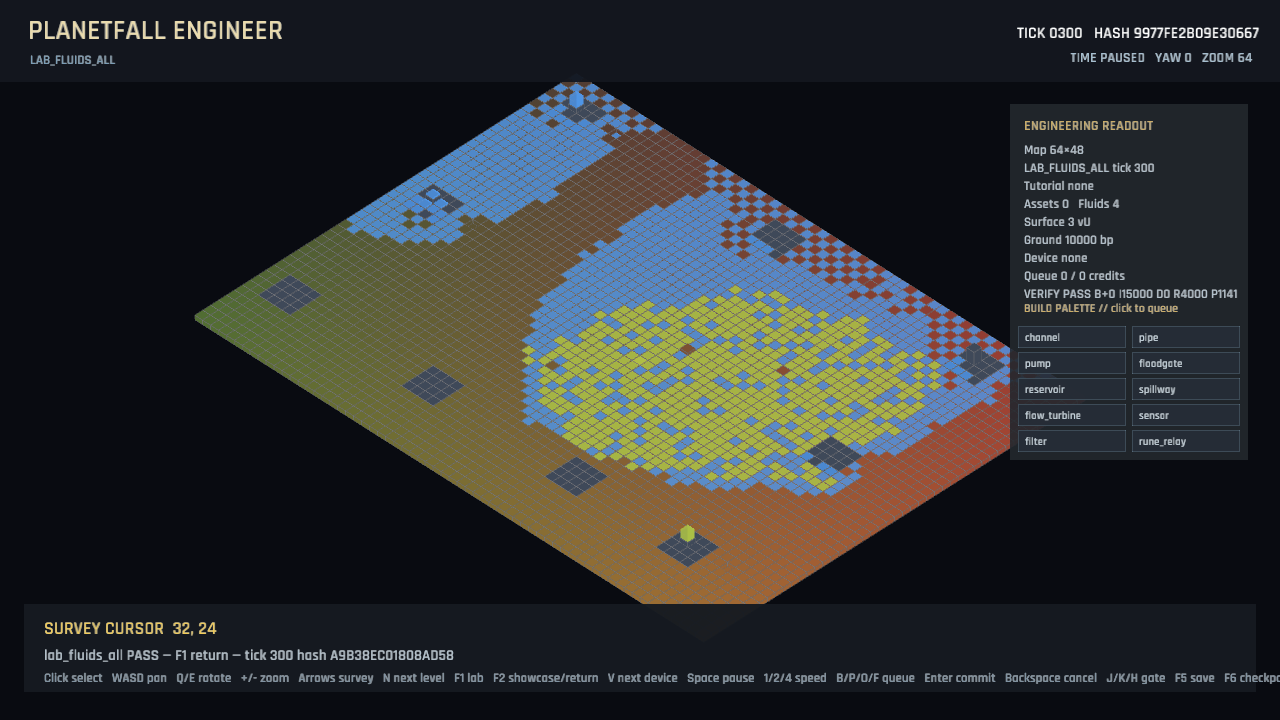
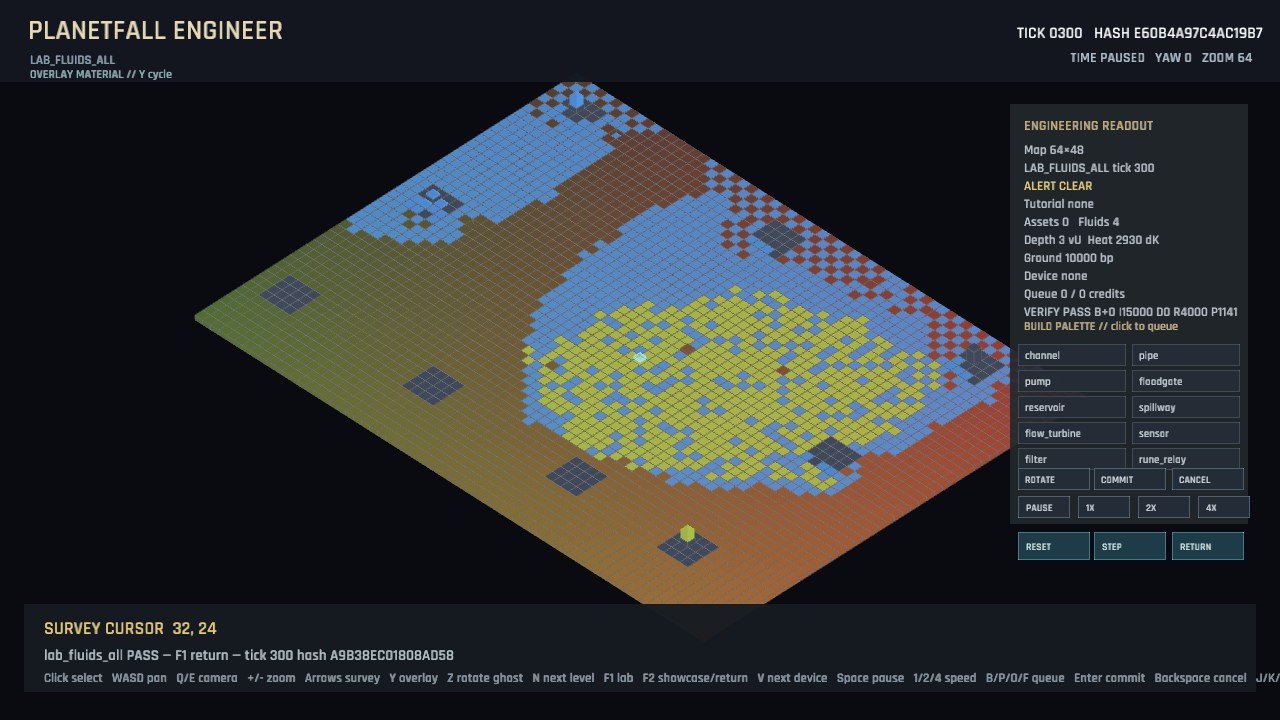
The proving ground answers every touch at the workbench (verification touch controls)
The laboratory and device fixtures still required hidden function-key knowledge\nfor reset, single-step, and return actions even after the title became\ntouch-first. Verification HUDs now expose visible Reset, Step, and Return\ncontrols that call the same deterministic fixture actions as the legacy keys.\n\nA focused hit-region test covers all three controls, and verification mode no\nlonger leaks L02 campaign guidance into the laboratory. The refreshed lab\ncapture shows the touch controls beside the ledger. cargo fmt --check, Clippy\nwith warnings denied, 60 tests, and the Windows/WebGL publisher pass.\n\nCo-Authored-By: GPT-5 <noreply@openai.com>

diff --git a/src/game_verification.rs b/src/game_verification.rs
@@ -4,8 +4,33 @@ use crate::devices::{showcase_world, DeviceId};
 use crate::game::{FoundationCamera, Game, VerificationMode};
 use crate::mission::{MissionId, MissionState};
 use crate::state::{CellPos, GameSession, TimeControl, WorldState};
+use crate::ui;
+use macroquad::prelude::*;
+
+#[derive(Debug, Clone, Copy, PartialEq, Eq)]
+enum VerificationClick {
+    Reset,
+    Step,
+    Return,
+}
 
 impl Game {
+    pub(crate) fn handle_verification_click(&mut self) -> bool {
+        if self.verification_mode.is_none() || !is_mouse_button_pressed(MouseButton::Left) {
+            return false;
+        }
+        let (mouse_x, mouse_y) = mouse_position();
+        let x = mouse_x / (screen_width() / ui::LOGICAL_WIDTH);
+        let y = mouse_y / (screen_height() / ui::LOGICAL_HEIGHT);
+        match verification_click_at(x, y) {
+            Some(VerificationClick::Reset) => self.reset_verification(),
+            Some(VerificationClick::Step) => self.step_verification(),
+            Some(VerificationClick::Return) => self.restore_campaign_session(),
+            None => return false,
+        }
+        true
+    }
+
     pub(crate) fn toggle_lab_mode(&mut self) {
         if let Some(campaign) = self.saved_campaign_session.take() {
             if self.verification_returns_to_menu {
@@ -114,6 +139,19 @@ impl Game {
     }
 }
 
+fn verification_click_at(x: f32, y: f32) -> Option<VerificationClick> {
+    if !(1018.0..1248.0).contains(&x) || !(532.0..560.0).contains(&y) {
+        return None;
+    }
+    if x < 1092.0 {
+        Some(VerificationClick::Reset)
+    } else if x < 1170.0 {
+        Some(VerificationClick::Step)
+    } else {
+        Some(VerificationClick::Return)
+    }
+}
+
 fn world_state_for(simulation: &crate::simulation::SimulationWorld) -> WorldState {
     let mut world = WorldState::new(simulation.width as usize, simulation.height as usize);
     for (cell, sim_cell) in world.cells.iter_mut().zip(&simulation.cells) {
@@ -121,4 +159,26 @@ fn world_state_for(simulation: &crate::simulation::SimulationWorld) -> WorldStat
         cell.sealed = sim_cell.sealed;
     }
     world
+}
+
+#[cfg(test)]
+mod tests {
+    use super::*;
+
+    #[test]
+    fn verification_controls_have_distinct_touch_targets() {
+        assert_eq!(
+            verification_click_at(1040.0, 546.0),
+            Some(VerificationClick::Reset)
+        );
+        assert_eq!(
+            verification_click_at(1120.0, 546.0),
+            Some(VerificationClick::Step)
+        );
+        assert_eq!(
+            verification_click_at(1200.0, 546.0),
+            Some(VerificationClick::Return)
+        );
+        assert_eq!(verification_click_at(1120.0, 570.0), None);
+    }
 }

diff --git a/src/ui.rs b/src/ui.rs
@@ -326,6 +326,25 @@ pub fn draw_hud(ctx: UiContext<'_>) {
             TextStyle::new(10.0, Color::new(0.82, 0.87, 0.9, 1.0)).params(),
         );
     }
+    if ctx.verification_label.is_some() {
+        for (x, label) in [(1018.0, "RESET"), (1094.0, "STEP"), (1172.0, "RETURN")] {
+            draw_rectangle(x, 532.0, 72.0, 28.0, Color::new(0.1, 0.22, 0.27, 0.98));
+            draw_rectangle_lines(
+                x,
+                532.0,
+                72.0,
+                28.0,
+                1.0,
+                Color::new(0.35, 0.74, 0.78, 0.95),
+            );
+            draw_ui_text_ex(
+                label,
+                x + 8.0,
+                550.0,
+                TextStyle::new(10.0, Color::new(0.85, 0.94, 0.9, 1.0)).params(),
+            );
+        }
+    }
     if matches!(
         ctx.session.mission.phase,
         MissionPhase::Success | MissionPhase::Failure | MissionPhase::Debrief
@@ -340,7 +359,8 @@ pub fn draw_hud(ctx: UiContext<'_>) {
             draw_tutorial_prompt(tutorial);
         }
     }
-    if ctx.session.mission.phase == MissionPhase::Active
+    if ctx.verification_label.is_none()
+        && ctx.session.mission.phase == MissionPhase::Active
         && ctx.session.mission.id != crate::mission::MissionId::L01FirstFlow
     {
         draw_stage_guide(ctx.session.mission.id);

diff --git a/src/game.rs b/src/game.rs
@@ -255,6 +255,7 @@ impl Game {
             && !self.handle_palette_click()
             && !self.handle_build_action_click()
             && !self.handle_time_click()
+            && !self.handle_verification_click()
         {
             self.select_from_pointer();
         }

diff --git a/docs/09_QUALITY_GATES.md b/docs/09_QUALITY_GATES.md
@@ -99,8 +99,9 @@ At every size:
 
 The deterministic UI-unit suite maps logical click coordinates to every title
 entry, the fluid laboratory, all ten device bays, all ten build-palette entries,
-Rotate/Commit/Cancel, and Pause/1X/2X/4X. A control with no matching action or
-an overlapping/off-panel coordinate fails that suite.
+Rotate/Commit/Cancel, Pause/1X/2X/4X, and verification Reset/Step/Return. A
+control with no matching action or an overlapping/off-panel coordinate fails
+that suite.
 
 Mission alert state is authoritative and text-labeled at four levels: clear,
 advisory, warning, and critical. Hazard failure timers remain separate from
